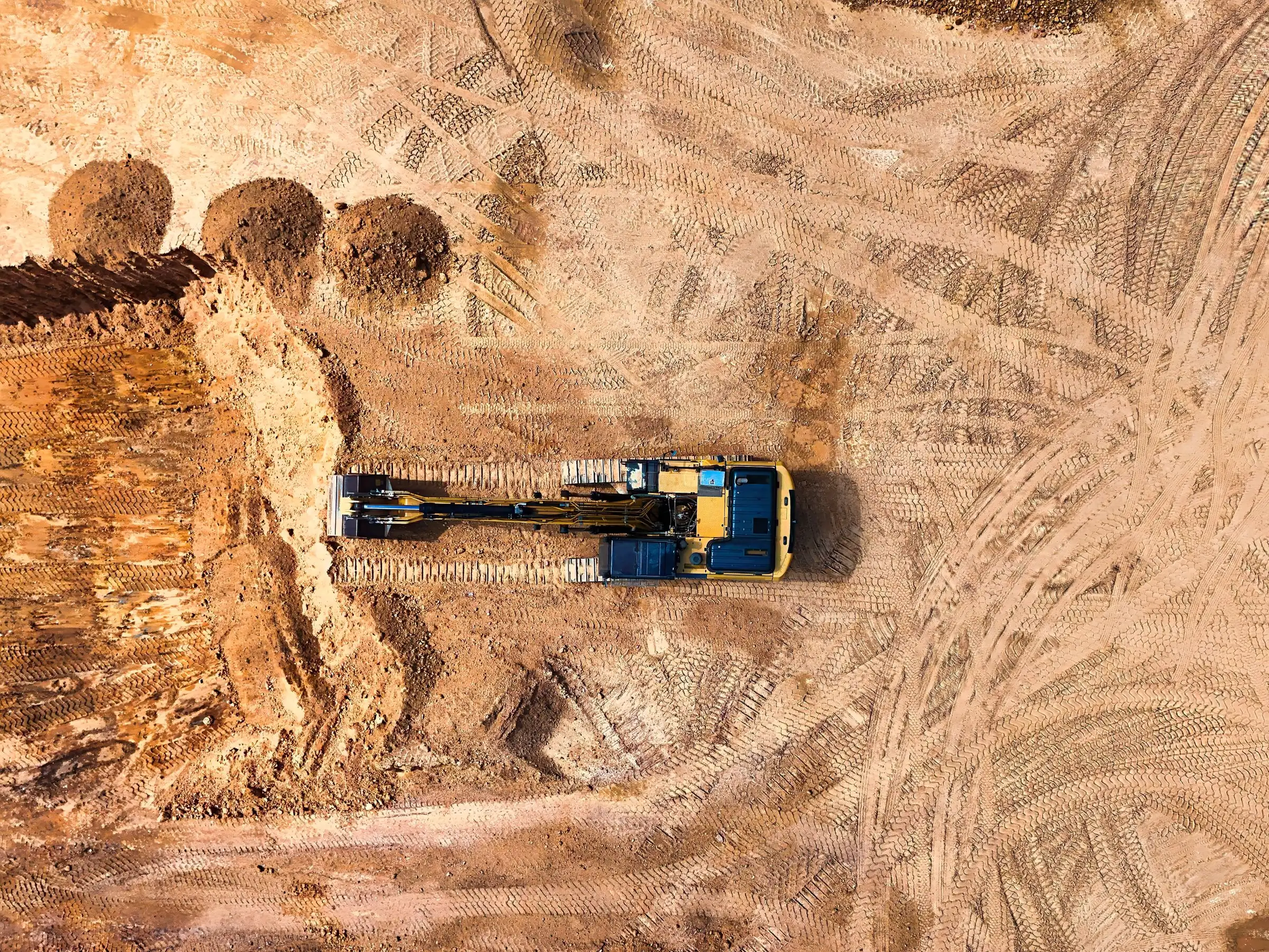
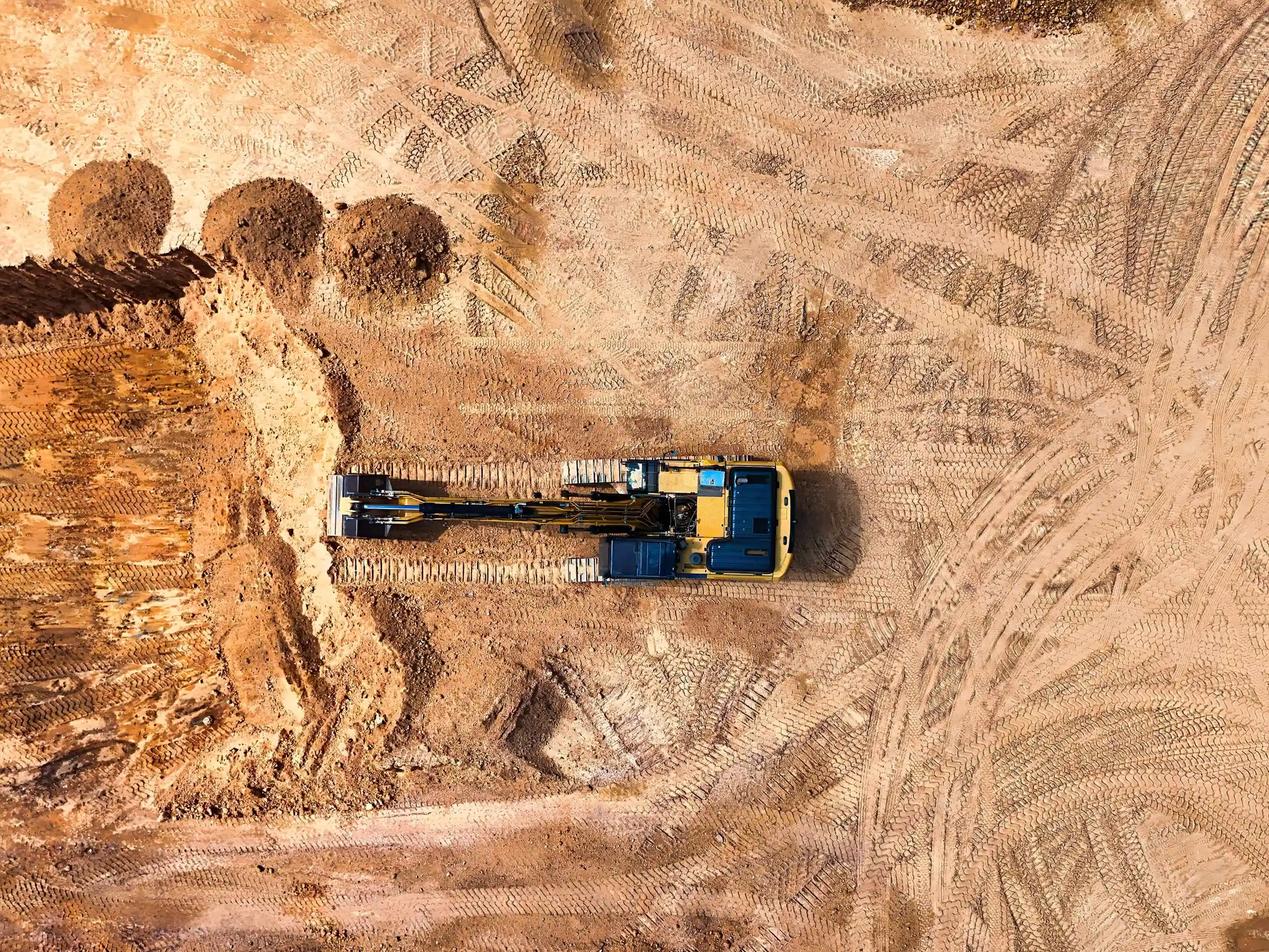
SEO: descriptions, Open Graph, schema, robots, sitemap, hero allégé
Les pages gardent leur texte et leur mise en page. Le hero 2400 est réencodé depuis la photo source, aux mêmes dimensions.

diff --git a/index.html b/index.html
@@ -4,9 +4,92 @@
   <meta charset="utf-8" />
   <meta name="viewport" content="width=device-width, initial-scale=1" />
   <title>Financement d’équipements et financement corporatif | Versa Capital, cabinet-conseil</title>
-  <meta name="description" content="Versa Capital, cabinet-conseil en financement : financement d'équipements (crédit-bail, prêt, location-acquisition) et financement corporatif et stratégique, avec plus de 20 partenaires financiers." />
+  <meta name="description" content="Versa Capital : financement d'équipements (crédit-bail, prêt, location-acquisition) et financement corporatif et stratégique. Plus de 20 partenaires financiers." />
   <link rel="canonical" href="https://versa.roymarketing.ca/" />
+  <meta property="og:type" content="website" />
+  <meta property="og:locale" content="fr_CA" />
+  <meta property="og:site_name" content="Versa Capital" />
+  <meta property="og:title" content="Financement d’équipements et financement corporatif | Versa Capital, cabinet-conseil" />
+  <meta property="og:description" content="Versa Capital : financement d'équipements (crédit-bail, prêt, location-acquisition) et financement corporatif et stratégique. Plus de 20 partenaires financiers." />
+  <meta property="og:url" content="https://versa.roymarketing.ca/" />
+  <meta property="og:image" content="https://versa.roymarketing.ca/img/og-excavatrice.jpg" />
+  <meta property="og:image:width" content="1200" />
+  <meta property="og:image:height" content="630" />
+  <meta property="og:image:alt" content="Excavatrice jaune vue du ciel sur un chantier d’excavation" />
+  <meta name="twitter:card" content="summary_large_image" />
+  <meta name="twitter:title" content="Financement d’équipements et financement corporatif | Versa Capital, cabinet-conseil" />
+  <meta name="twitter:description" content="Versa Capital : financement d'équipements (crédit-bail, prêt, location-acquisition) et financement corporatif et stratégique. Plus de 20 partenaires financiers." />
+  <meta name="twitter:image" content="https://versa.roymarketing.ca/img/og-excavatrice.jpg" />
+  <meta name="twitter:image:alt" content="Excavatrice jaune vue du ciel sur un chantier d’excavation" />
+  <link rel="icon" href="/favicon.ico" sizes="48x48" />
+  <link rel="apple-touch-icon" href="/apple-touch-icon.png" />
   <meta name="theme-color" content="#1C4FA0" />
+  <script type="application/ld+json">
+  {
+    "@context": "https://schema.org",
+    "@graph": [
+      {
+        "@type": "FinancialService",
+        "@id": "https://versa.roymarketing.ca/#organisation",
+        "name": "Versa Capital",
+        "description": "Versa Capital est un cabinet-conseil spécialisé en financement commercial et en financement d’équipements.",
+        "url": "https://versa.roymarketing.ca/",
+        "telephone": "+1-833-508-3772",
+        "email": "info@versacapital.ca",
+        "image": "https://versa.roymarketing.ca/img/og-excavatrice.jpg",
+        "logo": "https://versa.roymarketing.ca/img/logo-navy.png",
+        "slogan": "Catalyseur de croissance.",
+        "sameAs": ["https://versacapital.ca"],
+        "hasOfferCatalog": {
+          "@type": "OfferCatalog",
+          "name": "Services",
+          "itemListElement": [
+            {
+              "@type": "Offer",
+              "itemOffered": {
+                "@type": "Service",
+                "name": "Financement d’équipements",
+                "url": "https://versa.roymarketing.ca/financement-equipements/"
+              }
+            },
+            {
+              "@type": "Offer",
+              "itemOffered": {
+                "@type": "Service",
+                "name": "Financement corporatif et stratégique",
+                "url": "https://versa.roymarketing.ca/financement-corporatif-strategique/"
+              }
+            },
+            {
+              "@type": "Offer",
+              "itemOffered": {
+                "@type": "Service",
+                "name": "Solutions spécialisées",
+                "url": "https://versa.roymarketing.ca/solutions-specialisees/"
+              }
+            },
+            {
+              "@type": "Offer",
+              "itemOffered": {
+                "@type": "Service",
+                "name": "Optimisation du coût du capital",
+                "url": "https://versa.roymarketing.ca/optimisation-cout-capital/"
+              }
+            }
+          ]
+        }
+      },
+      {
+        "@type": "WebSite",
+        "@id": "https://versa.roymarketing.ca/#site",
+        "name": "Versa Capital",
+        "url": "https://versa.roymarketing.ca/",
+        "inLanguage": "fr-CA",
+        "publisher": { "@id": "https://versa.roymarketing.ca/#organisation" }
+      }
+    ]
+  }
+  </script>
   <link rel="preconnect" href="https://fonts.googleapis.com" />
   <link rel="preconnect" href="https://fonts.gstatic.com" crossorigin />
   <link href="https://fonts.googleapis.com/css2?family=Inter:wght@200..700&family=Poppins:wght@600&display=swap" rel="stylesheet" />

diff --git a/financement-corporatif-strategique/index.html b/financement-corporatif-strategique/index.html
@@ -4,9 +4,67 @@
   <meta charset="utf-8" />
   <meta name="viewport" content="width=device-width, initial-scale=1" />
   <title>Financement corporatif et stratégique | Versa Capital</title>
-  <meta name="description" content="Financement corporatif et stratégique par Versa Capital : hypothécaire commercial, fusions et acquisitions, financement privé et alternatif, optimisation de structure financière." />
+  <meta name="description" content="Financement corporatif et stratégique : hypothécaire commercial, fusions et acquisitions, financement privé et alternatif, optimisation de structure financière." />
   <link rel="canonical" href="https://versa.roymarketing.ca/financement-corporatif-strategique/" />
+  <meta property="og:type" content="website" />
+  <meta property="og:locale" content="fr_CA" />
+  <meta property="og:site_name" content="Versa Capital" />
+  <meta property="og:title" content="Financement corporatif et stratégique | Versa Capital" />
+  <meta property="og:description" content="Financement corporatif et stratégique : hypothécaire commercial, fusions et acquisitions, financement privé et alternatif, optimisation de structure financière." />
+  <meta property="og:url" content="https://versa.roymarketing.ca/financement-corporatif-strategique/" />
+  <meta property="og:image" content="https://versa.roymarketing.ca/img/og-horizon-urbain.jpg" />
+  <meta property="og:image:width" content="1200" />
+  <meta property="og:image:height" content="630" />
+  <meta property="og:image:alt" content="Horizon urbain et immeubles commerciaux" />
+  <meta name="twitter:card" content="summary_large_image" />
+  <meta name="twitter:title" content="Financement corporatif et stratégique | Versa Capital" />
+  <meta name="twitter:description" content="Financement corporatif et stratégique : hypothécaire commercial, fusions et acquisitions, financement privé et alternatif, optimisation de structure financière." />
+  <meta name="twitter:image" content="https://versa.roymarketing.ca/img/og-horizon-urbain.jpg" />
+  <meta name="twitter:image:alt" content="Horizon urbain et immeubles commerciaux" />
+  <link rel="icon" href="/favicon.ico" sizes="48x48" />
+  <link rel="apple-touch-icon" href="/apple-touch-icon.png" />
   <meta name="theme-color" content="#1C4FA0" />
+  <script type="application/ld+json">
+  {
+    "@context": "https://schema.org",
+    "@graph": [
+      {
+        "@type": "FinancialService",
+        "@id": "https://versa.roymarketing.ca/#organisation",
+        "name": "Versa Capital",
+        "url": "https://versa.roymarketing.ca/",
+        "telephone": "+1-833-508-3772",
+        "email": "info@versacapital.ca"
+      },
+      {
+        "@type": "Service",
+        "@id": "https://versa.roymarketing.ca/financement-corporatif-strategique/#service",
+        "name": "Financement corporatif et stratégique",
+        "serviceType": "Financement corporatif et stratégique",
+        "description": "Soutien aux projets de croissance, acquisitions, fonds de roulement, refinancement, consolidation de dettes et optimisation de la structure financière.",
+        "url": "https://versa.roymarketing.ca/financement-corporatif-strategique/",
+        "provider": { "@id": "https://versa.roymarketing.ca/#organisation" }
+      },
+      {
+        "@type": "BreadcrumbList",
+        "itemListElement": [
+          {
+            "@type": "ListItem",
+            "position": 1,
+            "name": "Versa Capital",
+            "item": "https://versa.roymarketing.ca/"
+          },
+          {
+            "@type": "ListItem",
+            "position": 2,
+            "name": "Financement corporatif et stratégique",
+            "item": "https://versa.roymarketing.ca/financement-corporatif-strategique/"
+          }
+        ]
+      }
+    ]
+  }
+  </script>
   <link rel="preconnect" href="https://fonts.googleapis.com" />
   <link rel="preconnect" href="https://fonts.gstatic.com" crossorigin />
   <link href="https://fonts.googleapis.com/css2?family=Inter:wght@200..700&family=Poppins:wght@600&display=swap" rel="stylesheet" />

diff --git a/optimisation-cout-capital/index.html b/optimisation-cout-capital/index.html
@@ -4,9 +4,67 @@
   <meta charset="utf-8" />
   <meta name="viewport" content="width=device-width, initial-scale=1" />
   <title>Optimisation du coût du capital | Versa Capital</title>
-  <meta name="description" content="Optimisation du coût du capital par Versa Capital : accompagnement transactionnel, support à l'achat ou à la vente d'équipements, offre intégrée avec Versa Équipements." />
+  <meta name="description" content="Optimisation du coût du capital : accompagnement transactionnel, support à l'achat ou à la vente d'équipements, offre intégrée avec Versa Équipements." />
   <link rel="canonical" href="https://versa.roymarketing.ca/optimisation-cout-capital/" />
+  <meta property="og:type" content="website" />
+  <meta property="og:locale" content="fr_CA" />
+  <meta property="og:site_name" content="Versa Capital" />
+  <meta property="og:title" content="Optimisation du coût du capital | Versa Capital" />
+  <meta property="og:description" content="Optimisation du coût du capital : accompagnement transactionnel, support à l'achat ou à la vente d'équipements, offre intégrée avec Versa Équipements." />
+  <meta property="og:url" content="https://versa.roymarketing.ca/optimisation-cout-capital/" />
+  <meta property="og:image" content="https://versa.roymarketing.ca/img/og-tours-nuit.jpg" />
+  <meta property="og:image:width" content="1200" />
+  <meta property="og:image:height" content="630" />
+  <meta property="og:image:alt" content="Tours du centre-ville illuminées la nuit" />
+  <meta name="twitter:card" content="summary_large_image" />
+  <meta name="twitter:title" content="Optimisation du coût du capital | Versa Capital" />
+  <meta name="twitter:description" content="Optimisation du coût du capital : accompagnement transactionnel, support à l'achat ou à la vente d'équipements, offre intégrée avec Versa Équipements." />
+  <meta name="twitter:image" content="https://versa.roymarketing.ca/img/og-tours-nuit.jpg" />
+  <meta name="twitter:image:alt" content="Tours du centre-ville illuminées la nuit" />
+  <link rel="icon" href="/favicon.ico" sizes="48x48" />
+  <link rel="apple-touch-icon" href="/apple-touch-icon.png" />
   <meta name="theme-color" content="#1C4FA0" />
+  <script type="application/ld+json">
+  {
+    "@context": "https://schema.org",
+    "@graph": [
+      {
+        "@type": "FinancialService",
+        "@id": "https://versa.roymarketing.ca/#organisation",
+        "name": "Versa Capital",
+        "url": "https://versa.roymarketing.ca/",
+        "telephone": "+1-833-508-3772",
+        "email": "info@versacapital.ca"
+      },
+      {
+        "@type": "Service",
+        "@id": "https://versa.roymarketing.ca/optimisation-cout-capital/#service",
+        "name": "Optimisation du coût du capital",
+        "serviceType": "Optimisation du coût du capital",
+        "description": "Accompagnement transactionnel et support lors de l’achat ou de la vente d’équipements, en collaboration avec Versa Équipements.",
+        "url": "https://versa.roymarketing.ca/optimisation-cout-capital/",
+        "provider": { "@id": "https://versa.roymarketing.ca/#organisation" }
+      },
+      {
+        "@type": "BreadcrumbList",
+        "itemListElement": [
+          {
+            "@type": "ListItem",
+            "position": 1,
+            "name": "Versa Capital",
+            "item": "https://versa.roymarketing.ca/"
+          },
+          {
+            "@type": "ListItem",
+            "position": 2,
+            "name": "Optimisation du coût du capital",
+            "item": "https://versa.roymarketing.ca/optimisation-cout-capital/"
+          }
+        ]
+      }
+    ]
+  }
+  </script>
   <link rel="preconnect" href="https://fonts.googleapis.com" />
   <link rel="preconnect" href="https://fonts.gstatic.com" crossorigin />
   <link href="https://fonts.googleapis.com/css2?family=Inter:wght@200..700&family=Poppins:wght@600&display=swap" rel="stylesheet" />

diff --git a/financement-equipements/index.html b/financement-equipements/index.html
@@ -6,7 +6,65 @@
   <title>Financement d’équipements | Versa Capital, cabinet-conseil en financement</title>
   <meta name="description" content="Financement d'équipements par Versa Capital : crédit-bail, prêt, location-acquisition, refinancement et cession-bail, avec plus de 20 partenaires financiers." />
   <link rel="canonical" href="https://versa.roymarketing.ca/financement-equipements/" />
+  <meta property="og:type" content="website" />
+  <meta property="og:locale" content="fr_CA" />
+  <meta property="og:site_name" content="Versa Capital" />
+  <meta property="og:title" content="Financement d’équipements | Versa Capital, cabinet-conseil en financement" />
+  <meta property="og:description" content="Financement d'équipements par Versa Capital : crédit-bail, prêt, location-acquisition, refinancement et cession-bail, avec plus de 20 partenaires financiers." />
+  <meta property="og:url" content="https://versa.roymarketing.ca/financement-equipements/" />
+  <meta property="og:image" content="https://versa.roymarketing.ca/img/og-excavatrice.jpg" />
+  <meta property="og:image:width" content="1200" />
+  <meta property="og:image:height" content="630" />
+  <meta property="og:image:alt" content="Excavatrice jaune vue du ciel sur un chantier d’excavation" />
+  <meta name="twitter:card" content="summary_large_image" />
+  <meta name="twitter:title" content="Financement d’équipements | Versa Capital, cabinet-conseil en financement" />
+  <meta name="twitter:description" content="Financement d'équipements par Versa Capital : crédit-bail, prêt, location-acquisition, refinancement et cession-bail, avec plus de 20 partenaires financiers." />
+  <meta name="twitter:image" content="https://versa.roymarketing.ca/img/og-excavatrice.jpg" />
+  <meta name="twitter:image:alt" content="Excavatrice jaune vue du ciel sur un chantier d’excavation" />
+  <link rel="icon" href="/favicon.ico" sizes="48x48" />
+  <link rel="apple-touch-icon" href="/apple-touch-icon.png" />
   <meta name="theme-color" content="#1C4FA0" />
+  <script type="application/ld+json">
+  {
+    "@context": "https://schema.org",
+    "@graph": [
+      {
+        "@type": "FinancialService",
+        "@id": "https://versa.roymarketing.ca/#organisation",
+        "name": "Versa Capital",
+        "url": "https://versa.roymarketing.ca/",
+        "telephone": "+1-833-508-3772",
+        "email": "info@versacapital.ca"
+      },
+      {
+        "@type": "Service",
+        "@id": "https://versa.roymarketing.ca/financement-equipements/#service",
+        "name": "Financement d’équipements",
+        "serviceType": "Financement d’équipements",
+        "description": "Crédit-bail, achat financé, location-exploitation, refinancement, vente avec cession-bail, structures avec valeur résiduelle et stratégies de renouvellement.",
+        "url": "https://versa.roymarketing.ca/financement-equipements/",
+        "provider": { "@id": "https://versa.roymarketing.ca/#organisation" }
+      },
+      {
+        "@type": "BreadcrumbList",
+        "itemListElement": [
+          {
+            "@type": "ListItem",
+            "position": 1,
+            "name": "Versa Capital",
+            "item": "https://versa.roymarketing.ca/"
+          },
+          {
+            "@type": "ListItem",
+            "position": 2,
+            "name": "Financement d’équipements",
+            "item": "https://versa.roymarketing.ca/financement-equipements/"
+          }
+        ]
+      }
+    ]
+  }
+  </script>
   <link rel="preconnect" href="https://fonts.googleapis.com" />
   <link rel="preconnect" href="https://fonts.gstatic.com" crossorigin />
   <link href="https://fonts.googleapis.com/css2?family=Inter:wght@200..700&family=Poppins:wght@600&display=swap" rel="stylesheet" />

diff --git a/solutions-specialisees/index.html b/solutions-specialisees/index.html
@@ -6,7 +6,65 @@
   <title>Solutions spécialisées | Versa Capital, cabinet-conseil en financement</title>
   <meta name="description" content="Solutions spécialisées de Versa Capital : programmes sur mesure pour industries spécifiques et stratégies de liquidité et de croissance." />
   <link rel="canonical" href="https://versa.roymarketing.ca/solutions-specialisees/" />
+  <meta property="og:type" content="website" />
+  <meta property="og:locale" content="fr_CA" />
+  <meta property="og:site_name" content="Versa Capital" />
+  <meta property="og:title" content="Solutions spécialisées | Versa Capital, cabinet-conseil en financement" />
+  <meta property="og:description" content="Solutions spécialisées de Versa Capital : programmes sur mesure pour industries spécifiques et stratégies de liquidité et de croissance." />
+  <meta property="og:url" content="https://versa.roymarketing.ca/solutions-specialisees/" />
+  <meta property="og:image" content="https://versa.roymarketing.ca/img/og-facade-immeuble.jpg" />
+  <meta property="og:image:width" content="1200" />
+  <meta property="og:image:height" content="630" />
+  <meta property="og:image:alt" content="Façade d’un immeuble moderne" />
+  <meta name="twitter:card" content="summary_large_image" />
+  <meta name="twitter:title" content="Solutions spécialisées | Versa Capital, cabinet-conseil en financement" />
+  <meta name="twitter:description" content="Solutions spécialisées de Versa Capital : programmes sur mesure pour industries spécifiques et stratégies de liquidité et de croissance." />
+  <meta name="twitter:image" content="https://versa.roymarketing.ca/img/og-facade-immeuble.jpg" />
+  <meta name="twitter:image:alt" content="Façade d’un immeuble moderne" />
+  <link rel="icon" href="/favicon.ico" sizes="48x48" />
+  <link rel="apple-touch-icon" href="/apple-touch-icon.png" />
   <meta name="theme-color" content="#1C4FA0" />
+  <script type="application/ld+json">
+  {
+    "@context": "https://schema.org",
+    "@graph": [
+      {
+        "@type": "FinancialService",
+        "@id": "https://versa.roymarketing.ca/#organisation",
+        "name": "Versa Capital",
+        "url": "https://versa.roymarketing.ca/",
+        "telephone": "+1-833-508-3772",
+        "email": "info@versacapital.ca"
+      },
+      {
+        "@type": "Service",
+        "@id": "https://versa.roymarketing.ca/solutions-specialisees/#service",
+        "name": "Solutions spécialisées",
+        "serviceType": "Solutions spécialisées",
+        "description": "Des programmes sur mesure pour les industries spécifiques et des stratégies de liquidité et de croissance.",
+        "url": "https://versa.roymarketing.ca/solutions-specialisees/",
+        "provider": { "@id": "https://versa.roymarketing.ca/#organisation" }
+      },
+      {
+        "@type": "BreadcrumbList",
+        "itemListElement": [
+          {
+            "@type": "ListItem",
+            "position": 1,
+            "name": "Versa Capital",
+            "item": "https://versa.roymarketing.ca/"
+          },
+          {
+            "@type": "ListItem",
+            "position": 2,
+            "name": "Solutions spécialisées",
+            "item": "https://versa.roymarketing.ca/solutions-specialisees/"
+          }
+        ]
+      }
+    ]
+  }
+  </script>
   <link rel="preconnect" href="https://fonts.googleapis.com" />
   <link rel="preconnect" href="https://fonts.gstatic.com" crossorigin />
   <link href="https://fonts.googleapis.com/css2?family=Inter:wght@200..700&family=Poppins:wght@600&display=swap" rel="stylesheet" />

diff --git a/CREDITS.md b/CREDITS.md
@@ -7,6 +7,7 @@ Since 2026-10-14 all images are exported in natural colour (no navy duotone, no 
 
 ## Stock photography (Pexels License, free to use, attribution not required but given here)
 - excavatrice-chantier-vue-aerienne: "Aerial View of Construction Excavator on Site" by Volker Braun (no people). https://www.pexels.com/photo/aerial-view-of-construction-excavator-on-site-33122153/
+- The 2400px excavator file was re-encoded from that source JPEG on 2026-10-21 (WebP quality 30, still 2400x1801). The 800 and 1400 files are unchanged. Open Graph crops (og-*.jpg) are 1200x630 frames of the same source photos.
 - tours-centre-ville-nuit: "Skyscrapers at Night" (downtown Montreal) by Julia Barrantes. https://www.pexels.com/photo/skyscrapers-at-night-15452183/
 - facade-immeuble-moderne: "Modern Architectural Building Facade Design" by Glenn Deblaere. https://www.pexels.com/photo/modern-architectural-building-facade-design-35528879/
 - horizon-urbain-commercial: "Montreal Cityscape with Skyscrapers and Clouds" by Daoud Saeed. https://www.pexels.com/photo/montreal-cityscape-with-skyscrapers-and-clouds-38633406/
